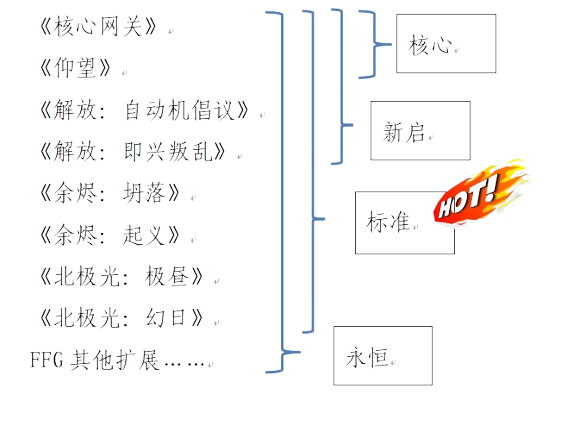
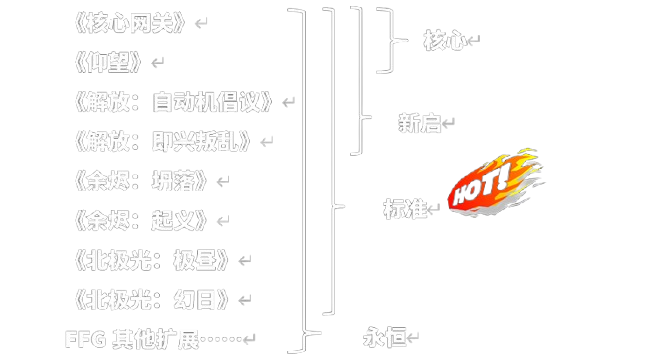
feat: 禁卡表

diff --git a/src/pages/ENVIRONMENT/index.jsx b/src/pages/ENVIRONMENT/index.jsx
@@ -1,12 +1,36 @@
 import styles from './style.less';
 import { useState } from 'react';
 import environmentImg from '@/assets/Environment/environmentImg.png'
+import { Image } from "antd"
 
 const ENVIRONMENT = () => {
   const [currentView, setCurrentView] = useState('main'); // 'main', 'banlist', 'cycle'
   const [transitionClass, setTransitionClass] = useState(''); // 控制过渡动画类
-
-  const showBanlist = () => {
+  const [banList, setBanList] = useState([]); // 禁卡表
+  const [currentBan, setCurrentBan] = useState('stardard'); // 禁卡表
+  const showBanlist = (type) => {
+    // 根据type设置禁卡表
+    if (type === 'standard') {
+      setCurrentBan('standard')
+      try {
+        const images = require.context('@/assets/Environment/standardBanList', false, /\.(webp)$/);
+        const imageArray = images.keys().map(image => images(image));
+        setBanList(imageArray);
+        console.log('images', images)
+        console.log('imageArray', imageArray)
+      } catch (error) {
+        console.error('Failed to import ban list images:', error);
+      }
+    } else {
+      setCurrentBan('starter')
+      try {
+        const images = require.context('@/assets/Environment/starterBanList', false, /\.(webp)$/);
+        const imageArray = images.keys().map(image => images(image));
+        setBanList(imageArray);
+      } catch (error) {
+        console.error('Failed to import ban list images:', error);
+      }
+    }
     setTransitionClass(styles.slideOutToRight);
     setTimeout(() => {
       setCurrentView('banlist');
@@ -49,27 +73,20 @@ const ENVIRONMENT = () => {
       >
         {/* 说明文字区域 */}
         <div className={styles.descriptionSection}>
-          <p>作为一款对战卡牌游戏，保证游戏平衡性的重要手段是确保您和您的对手在相同的赛制环境内对战，即使用同样的牌池，以及相同的禁卡表。</p>
-          <p>作为一款对战卡牌游戏，保证游戏平衡性的重要手段是确保您和您的对手在相同的赛制环境内对战，即使用同样的牌池，以及相同的禁卡表。</p>
+          <p>作为一款对战卡牌游戏，保证游戏平衡性的重要手段是确保您和您的对手在<span style={{ fontWeight: 800, color: '#e11919' }}>相同的赛制环境</span>内对战，即使用同样的牌池，以及相同的<span style={{ fontWeight: 800, color: '#000' }}>禁卡表</span>。</p>
+          <p>您可以和你的小伙伴自定义环境，但我们建议采用主流环境进行游戏，这样可以让您更方便地参与到更多玩家的讨论中。主流环境包括4种，其中90%以上的玩家使用的是<span style={{ fontWeight: 800, color: '#4ceb27' }}>标准（Standard）环境</span>，其他玩家则可能使用<span style={{ fontWeight: 800, color: '#79d6f3' }}>核心（Core Set）</span>、<span style={{ fontWeight: 800, color: '#e55cb4' }}>新启（Startup）</span>、<span style={{ fontWeight: 800, color: 'gray' }}>永恒（Eternal）</span>这3种。</p>
         </div>
 
         {/* 按钮区域 */}
         <div className={styles.buttonSection}>
           {/* 左侧按钮 - 禁卡区 */}
           <div className={styles.leftButtons}>
-            <h3>禁卡区</h3>
             <div className={styles.buttonGrid}>
-              <button className={styles.techButton} onClick={showBanlist}>
-                标准
+              <button className={styles.techButton} style={{ background: 'linear-gradient(135deg, rgb(76, 235, 39), #ffffff00)' }} onClick={() => showBanlist('standard')}>
+                查看标准禁卡表
               </button>
-              <button className={styles.techButton} onClick={showBanlist}>
-                核心
-              </button>
-              <button className={styles.techButton} onClick={showBanlist}>
-                新启
-              </button>
-              <button className={styles.techButton} onClick={showBanlist}>
-                永恒
+              <button className={styles.techButton} style={{ background: 'linear-gradient(135deg, #e55cb4, #ffffff00)' }} onClick={() => showBanlist('start')}>新启（Startup）
+                查看新启禁卡表
               </button>
             </div>
           </div>
@@ -109,10 +126,24 @@ const ENVIRONMENT = () => {
       >
         <div className={styles.pageHeader}>
           <button className={styles.backButton} onClick={showMainFromBanlist}>返回</button>
-          <h2>禁卡区内容</h2>
+          {currentBan === 'standard' && <>
+            <h2>标准禁卡表25.08</h2>
+            <h2>生效日期：2025年8月1日</h2>
+          </>}
+          {currentBan === 'starter' && <>
+            <h2>新启禁卡表25.04</h2>
+            <h2>生效日期：2025年4月27日</h2>
+          </>}
         </div>
-        <div className={styles.pageContent}>
-          <p>这里是禁卡区的详细内容</p>
+        <div className={styles.banListContent}>
+          {banList.map((image) => (
+            <Image
+              className={styles.image}
+              width={150}
+              src={image}
+            />
+
+          ))}
         </div>
       </div>
 

diff --git a/src/pages/ENVIRONMENT/style.less b/src/pages/ENVIRONMENT/style.less
@@ -47,6 +47,16 @@
   padding: 20px;
 }
 
+.banListContent {
+  display: flex;
+  flex-wrap: wrap;
+  gap: 10px;
+
+  .image {
+    width: 150px;
+  }
+}
+
 /* 初始状态 - 主页面显示 */
 .mainPage.active {
   transform: translateX(0);
@@ -117,16 +127,17 @@
 
 /* 主页面内容样式 */
 .descriptionSection {
-  padding: 20px;
+  padding: 100px;
+  padding-top: 40px;
+  padding-bottom: 0;
   text-align: center;
-  border-bottom: 1px solid #ccc;
-  margin-bottom: 20px;
+  font-size: 32px;
+  font-family: 'CommonFont';
 }
 
 .buttonSection {
   display: flex;
   justify-content: space-between;
-  padding: 20px 0;
   flex: 1;
 }
 
@@ -142,10 +153,13 @@
   }
 }
 
-.middle {}
+.middle {
+  height: fit-content;
+}
 
 .buttonGrid {
-  display: grid;
+  display: flex;
+  flex-direction: column;
   grid-template-columns: 1fr 1fr;
   gap: 15px;
   width: 100%;
@@ -161,6 +175,7 @@
 }
 
 .techButton {
+  height: 100px;
   padding: 15px 20px;
   background: linear-gradient(135deg, #6e8efb, #a777e3);
   color: white;
@@ -170,13 +185,49 @@
   font-weight: bold;
   transition: all 0.3s ease;
   box-shadow: 0 4px 6px rgba(0, 0, 0, 0.1);
+  position: relative;
+  overflow: hidden;
 
   &:hover {
     transform: translateY(-2px);
-    box-shadow: 0 6px 8px rgba(0, 0, 0, 0.15);
+    box-shadow: 0 0 15px rgba(76, 235, 39, 0.7);
+
+    &::before {
+      content: '';
+      position: absolute;
+      top: 0;
+      left: -100%;
+      width: 100%;
+      height: 100%;
+      background: linear-gradient(90deg, transparent, rgba(255, 255, 255, 0.4), transparent);
+      transition: left 0.5s;
+      z-index: 1;
+    }
+
+    &::after {
+      content: '';
+      position: absolute;
+      top: -50%;
+      left: -50%;
+      width: 200%;
+      height: 200%;
+      background: radial-gradient(circle, rgba(255, 255, 255, 0.2) 0%, transparent 70%);
+      transform: scale(0);
+      transition: transform 0.5s ease;
+      z-index: 0;
+    }
   }
 
-  &:active {
-    transform: translateY(0);
+  &:hover::before {
+    left: 100%;
+  }
+
+  &:hover::after {
+    transform: scale(1);
+  }
+
+  // 为新启禁卡表按钮定制颜色
+  &:nth-child(2):hover {
+    box-shadow: 0 0 15px rgba(229, 92, 180, 0.7);
   }
 }
